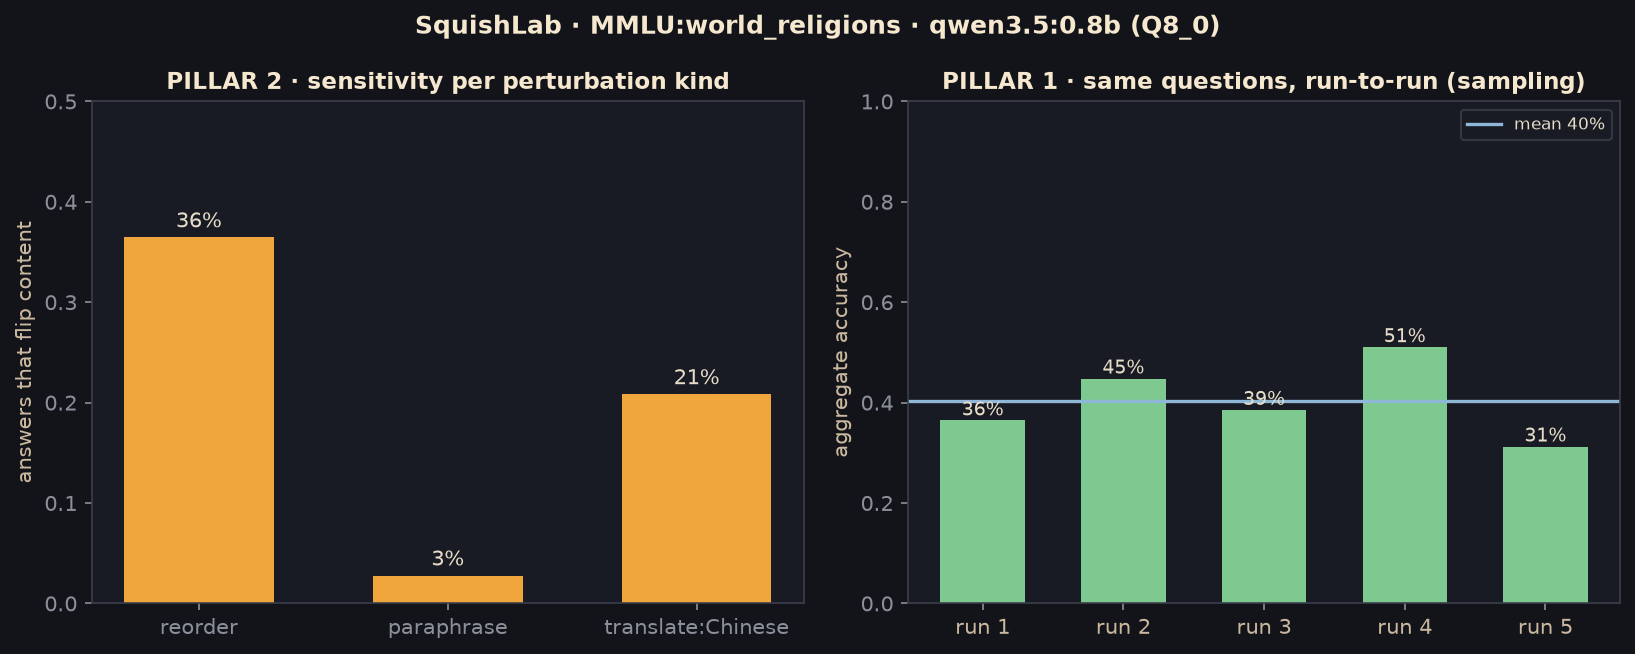
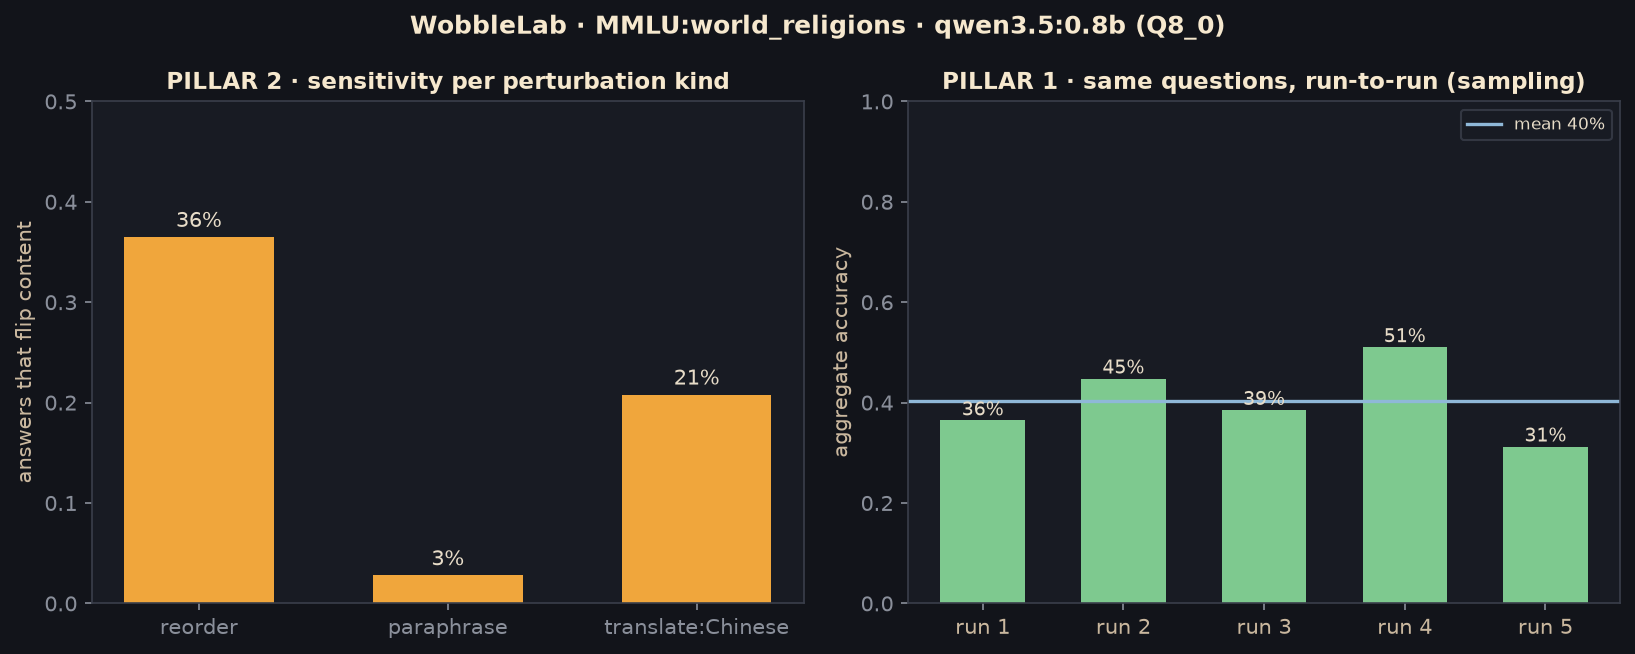
Regenerate result figures with wobble labels (add replot.py)
The rename fixed source strings but left 'SQUISH' baked into the figure PNGs.
replot.py redraws each from its saved JSON via the original plot() functions —
same numbers (preserving the README/pitch receipts), corrected labels, no model run.
Fixes wobble_plane_v02, harness/bench/pillars_world_religions, config_ab, wobble_scores_v02.

Changed region(s): [[0.2495, 0.0, 0.7486, 0.0612]]

diff --git a/experiments/replot.py b/experiments/replot.py
@@ -1,0 +1,105 @@
+"""Regenerate the result figures from their saved JSON — no model calls.
+
+The squishlab -> wobblelab rename fixed every *source* string, but the PNGs still
+carried "SQUISH" baked into their pixels. Re-running the experiments would redraw
+the text, but it would also resample the model and *change the numbers* the README
+and pitch cite (65% at slot A, the cereal_soup knife-edge, the 0.48 swing). That
+breaks the receipts.
+
+So this reads each figure's saved JSON and calls the *same* plot() function the
+original run used, with the current (already-renamed) title strings. Same data,
+corrected labels. Pure post-processing.
+
+Covers the six public-facing figures (README + pitch). The superseded v0.1 / "real"
+wobble planes are journal-only dated snapshots and are left as-is.
+
+Run:  python experiments/replot.py
+"""
+
+from __future__ import annotations
+
+import json
+from pathlib import Path
+
+# The plot() functions read their module-level MODEL/QUANT/SUBJECT/VERSION globals
+# for titles; those are already the renamed, current values, so importing and
+# calling plot() reproduces each current figure faithfully. The OllamaClient these
+# modules instantiate at import time is inert (stores config, no network call).
+from bench import plot as plot_bench
+from config_ab import plot as plot_config
+from harness import plot as plot_harness
+from run_pillars import plot as plot_pillars
+from vpoc_real import plot as plot_plane
+from xlingual import plot as plot_xlingual
+
+RESULTS = Path(__file__).resolve().parent.parent / "results"
+
+
+def _load(name: str) -> dict:
+    return json.loads((RESULTS / name).read_text())
+
+
+def replot_plane() -> str:
+    j = _load("vpoc_v02.json")
+    plot_plane(j["results"], RESULTS / "wobble_plane_v02.png")
+    return "wobble_plane_v02.png"
+
+
+def replot_harness() -> str:
+    j = _load("harness_world_religions.json")
+    order = [("gen", "0shot"), ("ll", "0shot"), ("gen", "5shot"), ("ll", "5shot")]
+    grid = {(s, sh): j["grid"][f"{s}_{sh}"] for s, sh in order}
+    plot_harness(grid, j["profiles_0shot"], RESULTS / "harness_world_religions.png")
+    return "harness_world_religions.png"
+
+
+def replot_bench() -> str:
+    j = _load("bench_world_religions.json")
+    plot_bench(
+        j["accuracy_by_position"],
+        j["accuracy_debiased"],
+        j["accuracy_ci_bootstrap"],
+        j["chosen_letter_dist"],
+        RESULTS / "bench_world_religions.png",
+    )
+    return "bench_world_religions.png"
+
+
+def replot_config() -> str:
+    j = _load("config_ab.json")
+    plot_config(j["results"], RESULTS / "config_ab.png")
+    return "config_ab.png"
+
+
+def replot_xlingual() -> str:
+    j = _load("xlingual.json")
+    plot_xlingual(j["results"], RESULTS / "xlingual.png")
+    return "xlingual.png"
+
+
+def replot_pillars() -> str:
+    j = _load("pillars_world_religions.json")
+    plot_pillars(
+        j["report"]["wobble_by_kind"],
+        j["stability"]["runs"],
+        j["stability"]["mean"],
+        RESULTS / "pillars_world_religions.png",
+    )
+    return "pillars_world_religions.png"
+
+
+def main() -> None:
+    for fn in (
+        replot_plane,
+        replot_harness,
+        replot_bench,
+        replot_config,
+        replot_xlingual,
+        replot_pillars,
+    ):
+        name = fn()
+        print(f"redrew results/{name}")
+
+
+if __name__ == "__main__":
+    main()

diff --git a/docs/lab-journal.md b/docs/lab-journal.md
@@ -456,8 +456,14 @@ one fast-forward commit on `main` (local; not yet pushed — push waits on the G
   green (60). Bumped `pyproject.toml` `0.0.1 → 0.1.0` and refreshed the `description` to the
   wobble one-liner. Committed on `rename-wobblelab`, fast-forwarded to `main`, deleted the branch.
 
-**STILL OPEN (not blocking):** result/pitch **PNGs still show "SQUISH" baked into the pixels**
-(can't sed an image) — regenerate the charts to fix; filenames + JSON keys are already renamed.
+**PNG text fixed (2026-07-23, after publish).** The six public-facing figures (README + pitch)
+had "SQUISH" baked into their pixels. Re-running the experiments would have redrawn the text but
+also resampled the model and moved the cited numbers — breaking the receipts. Instead added
+`experiments/replot.py`: it reads each figure's saved JSON and calls the same `plot()` the
+original run used, with the already-renamed title strings. Same data, corrected labels, no model.
+Regenerated `wobble_plane_v02`, `harness_/bench_/pillars_world_religions`, `config_ab`, and
+`wobble_scores_v02` (via `score.py`). `xlingual.png` had no squish text (byte-identical redraw).
+The superseded v0.1 / "real" wobble planes are journal-only dated snapshots, left as-is.
 
 **Kate's account-level TODOs (not code):** claim `wobblelab` on PyPI (it's free; 404 confirmed)
 + configure Trusted Publishing pending-publisher for it; leave/tombstone `squishlab` (published
